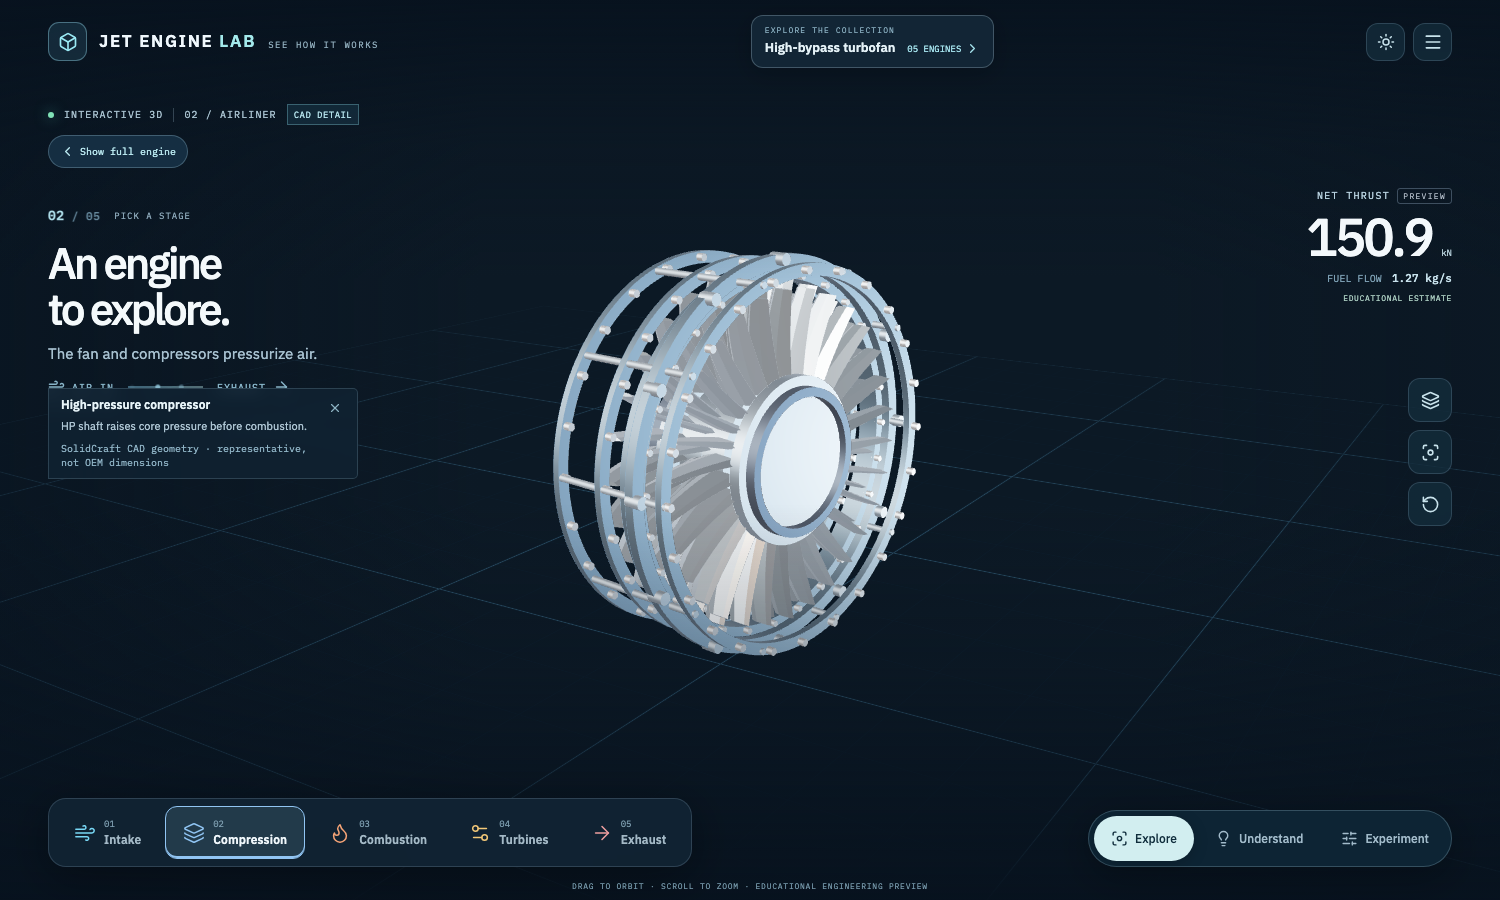
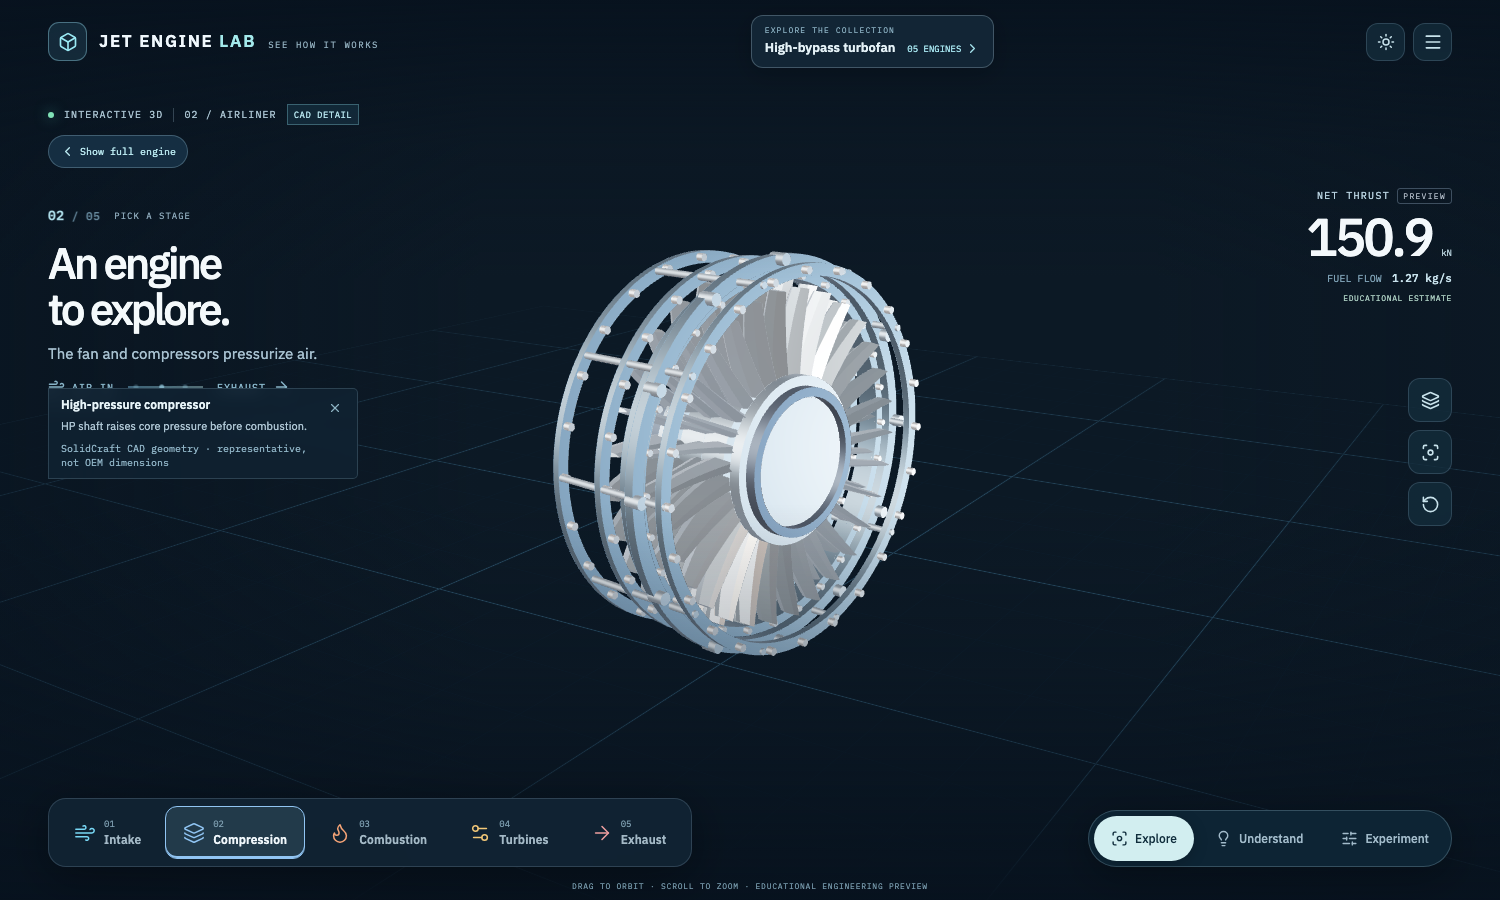
fix: refine CAD detail framing and refresh verified screenshots

Changed region(s): [[0.3987, 0.3111, 0.6133, 0.7156], [0.4293, 0.3422, 0.46, 0.4044], [0.46, 0.3111, 0.4907, 0.3422]]

diff --git a/scripts/readme-screenshots.spec.ts b/scripts/readme-screenshots.spec.ts
@@ -1,7 +1,7 @@
 import { test, expect } from '@playwright/test';
 import { mkdir } from 'node:fs/promises';
 
-const ROOT = 'https://aungmyokyaw.github.io/jet-engine-lab/';
+const ROOT = process.env.JETLAB_SCREENSHOT_BASE ?? 'https://aungmyokyaw.github.io/jet-engine-lab/';
 const OUTPUT = 'docs/readme';
 const engineUrl = (id: string) => ROOT + '?capture=readme-20261105-' + id + '#/engines/' + id;
 const distinctiveCAD: Record<string, string> = {
@@ -11,7 +11,7 @@ const distinctiveCAD: Record<string, string> = {
   'geared-turbofan': 'planetary-reducer',
 };
 
-test.setTimeout(100_000);
+test.setTimeout(90_000);
 test.use({ colorScheme: 'dark', serviceWorkers: 'block' });
 test.beforeEach(async ({ page }) => {
   // Screenshot sessions must not inherit project recovery from another engine.
@@ -31,7 +31,7 @@ async function openEngine(page: import('@playwright/test').Page, id: string) {
   await page.waitForTimeout(1200);
 }
 
-test('README desktop screenshots — live production', async ({ page }) => {
+test('README desktop engine and gallery screenshots', async ({ page }) => {
   await mkdir(OUTPUT, { recursive: true });
   await page.setViewportSize({ width: 1600, height: 900 });
   await openEngine(page, 'turbofan');
@@ -47,11 +47,15 @@ test('README desktop screenshots — live production', async ({ page }) => {
   // Give the five cards enough vertical space so none is clipped.
   await page.setViewportSize({ width: 1600, height: 1050 });
   await page.screenshot({ path: OUTPUT + '/gallery-desktop.png', animations: 'disabled' });
-  await page.setViewportSize({ width: 1600, height: 900 });
+});
 
-  await page.getByRole('button', { name: 'Explore Afterburning turbofan' }).click();
-  await expect(page.getByText('03 / FIGHTER')).toBeVisible();
+test('README afterburner experiment screenshot', async ({ page }) => {
+  await mkdir(OUTPUT, { recursive: true });
+  await page.setViewportSize({ width: 1600, height: 900 });
+  await openEngine(page, 'afterburning-turbofan');
   await page.getByRole('button', { name: 'Experiment', exact: true }).click();
+  await expect(page.getByRole('button', { name: 'Experiment', exact: true })).toHaveAttribute('aria-pressed', 'true');
+  await expect(page.getByText('03 / FIGHTER')).toBeVisible();
   await expect(page.getByRole('slider', { name: 'Nozzle opening illustration' })).toBeVisible();
   await page.getByRole('slider', { name: 'Nozzle opening illustration' }).fill('80');
   if (await page.getByRole('button', { name: 'LIGHT AFTERBURNER' }).count()) {
@@ -60,23 +64,31 @@ test('README desktop screenshots — live production', async ({ page }) => {
   await expect(page.getByRole('button', { name: 'AFTERBURNER ON' })).toBeVisible();
   await page.waitForTimeout(800);
   await page.screenshot({ path: OUTPUT + '/afterburner-experiment.png', animations: 'disabled' });
+});
 
+test('README centrifugal impeller detail screenshot', async ({ page }) => {
+  await mkdir(OUTPUT, { recursive: true });
+  await page.setViewportSize({ width: 1600, height: 900 });
   await openEngine(page, 'centrifugal-turbojet');
   await page.getByRole('button', { name: 'Understand', exact: true }).click();
   await page.locator('.visual-stages button').nth(1).click();
   await expect(page.getByRole('heading', { name: 'Impeller.' })).toBeVisible();
   await page.waitForTimeout(1500);
   await page.screenshot({ path: OUTPUT + '/centrifugal-impeller.png', animations: 'disabled' });
+});
 
+test('README geared power path screenshot', async ({ page }) => {
+  await mkdir(OUTPUT, { recursive: true });
+  await page.setViewportSize({ width: 1600, height: 900 });
   await openEngine(page, 'geared-turbofan');
   await page.getByRole('button', { name: 'Experiment', exact: true }).click();
+  await expect(page.getByRole('button', { name: 'Experiment', exact: true })).toHaveAttribute('aria-pressed', 'true');
+  await expect(page.getByRole('button', { name: 'REVEAL GEAR POWER PATH' })).toBeVisible();
   await page.getByRole('button', { name: 'REVEAL GEAR POWER PATH' }).click();
   await page.waitForTimeout(1300);
   await page.screenshot({ path: OUTPUT + '/geared-power.png', animations: 'disabled' });
 
-  for (const id of ['gallery-desktop', 'afterburner-experiment', 'centrifugal-impeller', 'geared-power']) {
-    console.log('READ_ME_SCREENSHOT', OUTPUT + '/' + id + '.png');
-  }
+  console.log('READ_ME_SCREENSHOT', OUTPUT + '/geared-power.png');
 });
 
 test('README mobile screenshots — live production', async ({ page }) => {

diff --git a/src/app/engine/EngineViewport.tsx b/src/app/engine/EngineViewport.tsx
@@ -155,7 +155,12 @@ function World({engine,selected,onSelect,explode,showShell,result,referenceMode,
   const fitContext=[engine,preset,viewReset,referenceMode,focusPart,size.width,size.height].join(':');
   // Adjusting explosion must preserve any custom orbit angle, not jump back to a preset.
   const currentDirection=controls.object.position.clone().sub(controls.target).normalize();
-  const direction=lastFitContext.current===fitContext?currentDirection:normal[preset].normalize();
+  // A centrifugal impeller's radial vanes are on the inlet-facing side.
+  // Focus from that side so its solid backplate cannot hide the blade passages.
+  const focusDirection=focusPart==='impeller'
+   ?new THREE.Vector3(-1.05,.33,.88)
+   :normal[preset];
+  const direction=lastFitContext.current===fitContext?currentDirection:focusDirection.normalize();
   lastFitContext.current=fitContext;
   // Fit actual assembly envelopes instead of an oversized whole-engine cuboid.
   // The radial envelope varies strongly along the axis, especially at the inlet.
